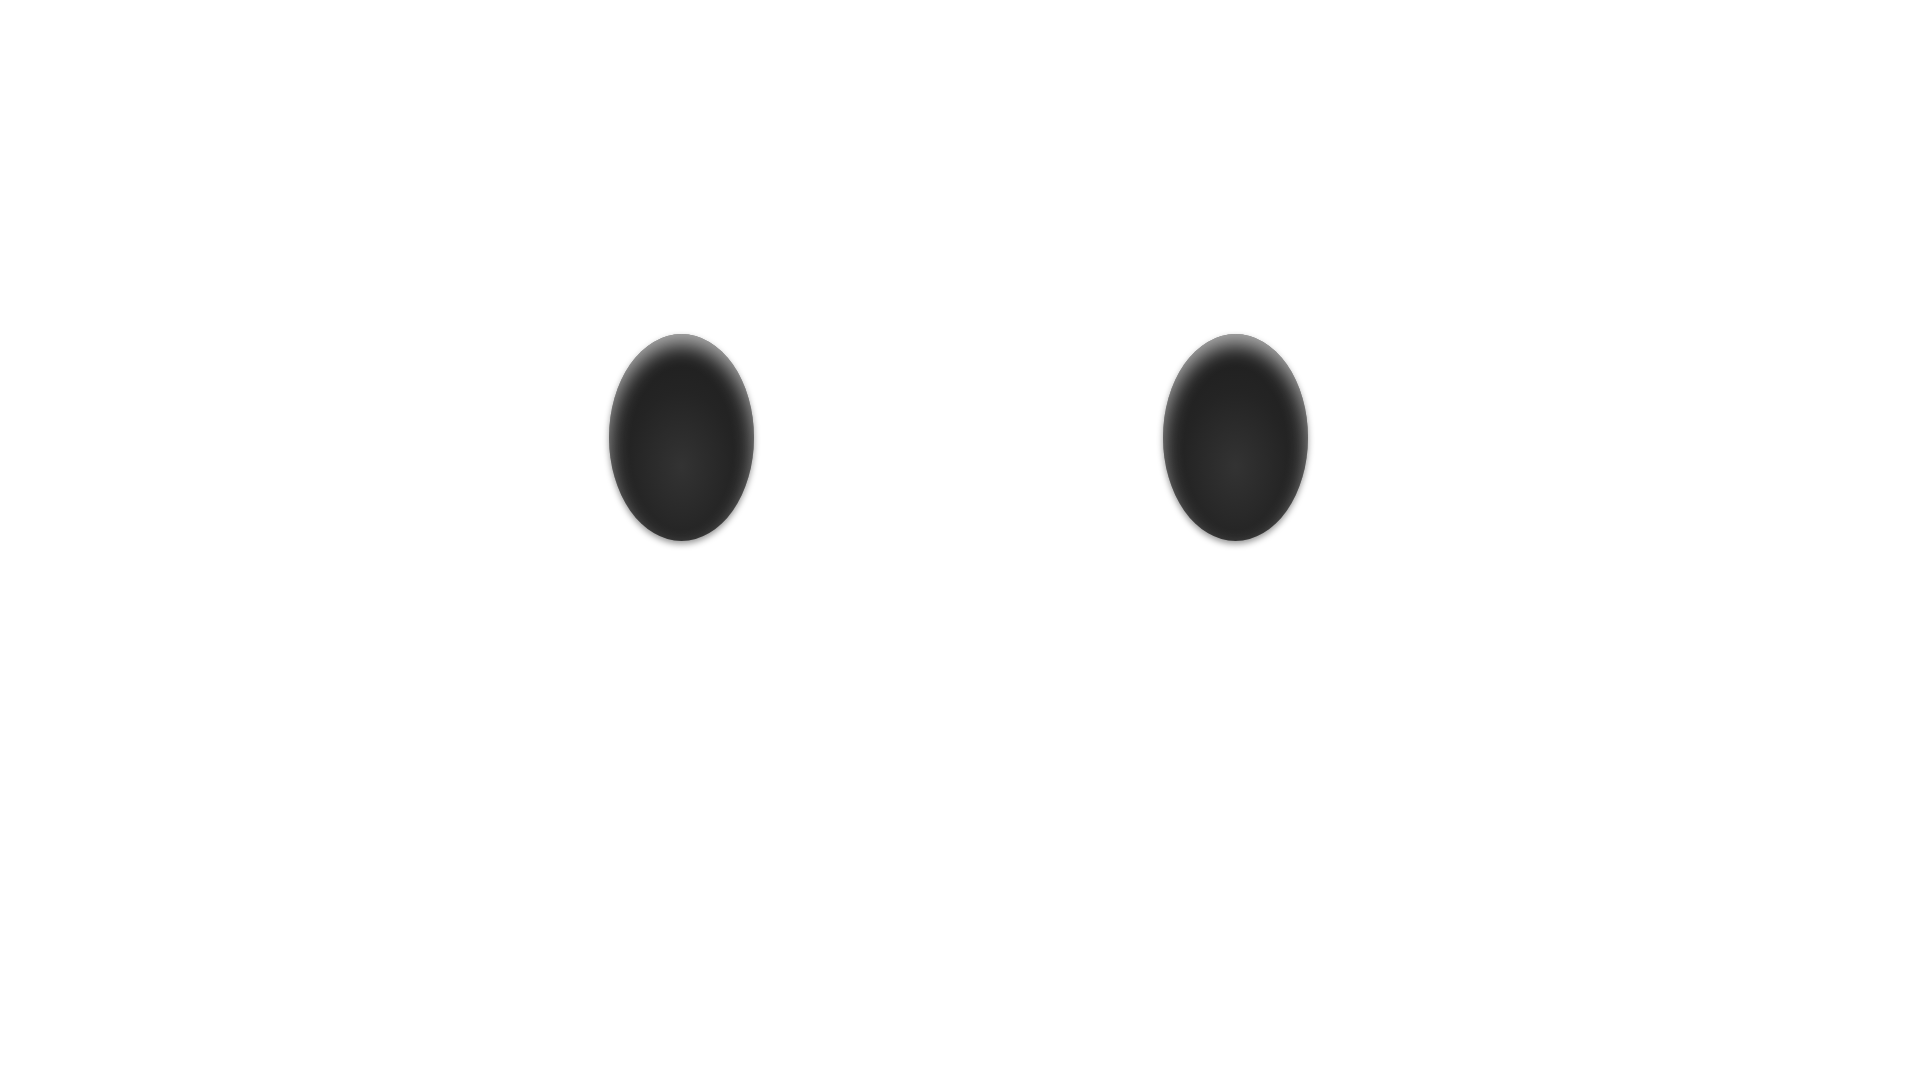
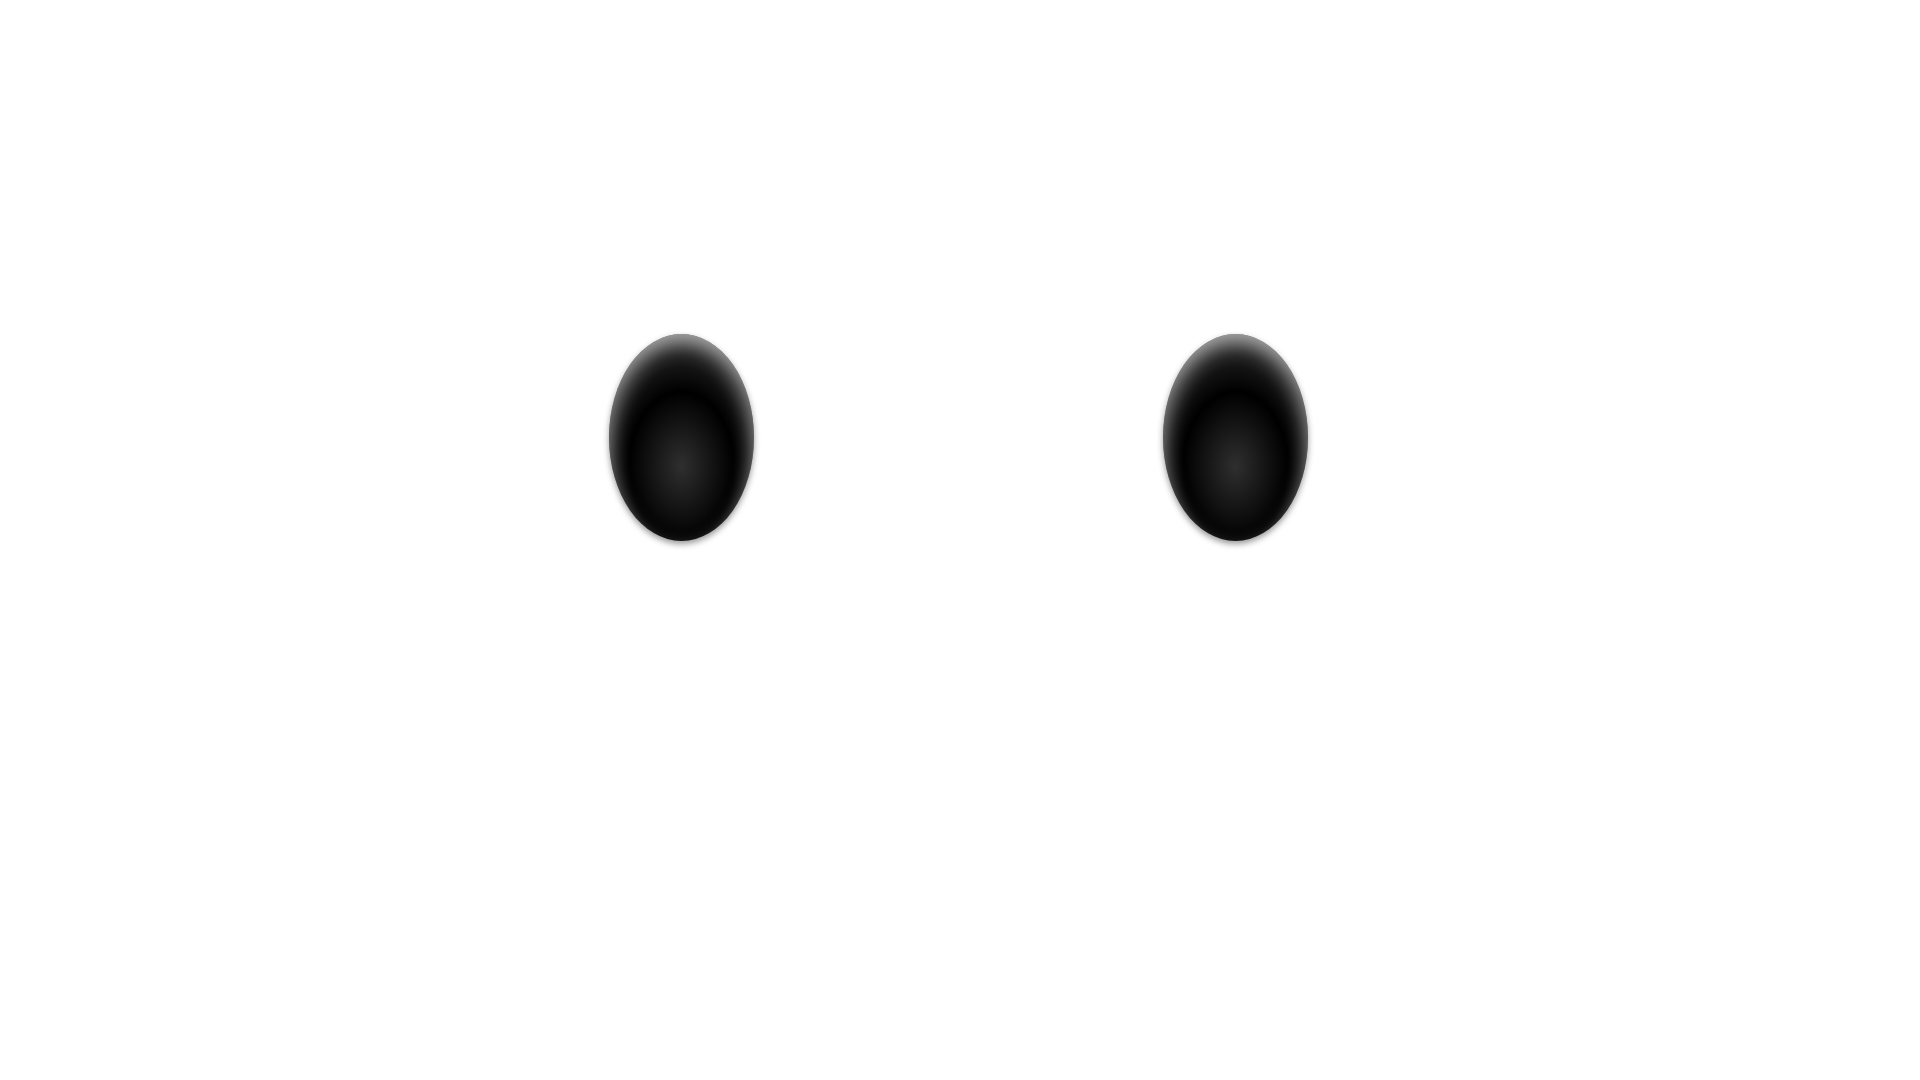
Added all CSS classes and emotion switch case.

Changed region(s): [[0.3125, 0.3361, 0.4062, 0.5194], [0.5938, 0.3361, 0.6875, 0.5194]]

diff --git a/Frontend/style.css b/Frontend/style.css
@@ -1,14 +1,20 @@
+:root {
+    --primary-color: #E8CE58;
+}
+
 body {
-    background-color: #E8CE58;
+    background-color: var(--primary-color);
+    overflow: hidden;
+    filter: hue-rotate(0deg);
+    transition: filter .8s ease;
 }
 
-.monster-parent {
-    position: relative;
-    height: 100%;
-    width: 100%;
+.monster-parent  {
+    height: 100vh;
+    background-color: var(--primary-color);
 }
 
-.monster-image {
+#teeth, #mouth, #eyes, #pupils, #eyelid-right, #eyelid-left, #highlight {
     width: 100vw;
     /* max-height: 100vh; */
     position: absolute;
@@ -16,8 +22,16 @@ body {
     -ms-transform: translateY(-50%);
     transform: translateY(-50%);
 }
+#eyelid-right, #eyelid-left {
+    margin-top: -5.4vw;
+    height: 0%;
+}
 
-#monster-eye {
+#highlight {
+    mix-blend-mode: soft-light;
+}
+
+#pupils {
     animation: blink 1s ease-in-out infinite alternate;
 }
 
@@ -33,5 +47,174 @@ body {
     }
     13% {
         height: 56.25vw;
+    }
+}
+
+@keyframes sleeping_mouth {
+    0% {
+        transform: translateY(-37.65%) scaleY(.5);
+    }
+    50% {
+        transform: translateY(-38.25%) scaleY(.57);
+    }
+    75% {
+        transform: translateY(-37.65%) scaleY(.5);
+    }
+}
+
+@keyframes sad_mouth {
+    0% {
+        transform: translateY(-35%) scaleY(-.3);
+    }
+    50% {
+        transform: translateY(-36%) scaleY(-.4);
+    }
+    75% {
+        transform: translateY(-35%) scaleY(-.3);
+    }
+}
+
+
+@keyframes laughing_eyelids {
+    10% {
+        height: 0vw; margin-top: 9vw;
+    }
+    20% {
+        margin-top: -2.2vw;
+        height: 40vw;
+    }
+    25% {
+        margin-top: -0.5vw;
+        height: 40vw;
+    }
+    30% {
+        margin-top: -2.2vw;
+        height: 40vw;
+    }
+    35% {
+        margin-top: -0.5vw;
+        height: 40vw;
+    }
+    40% {
+        margin-top: -2.2vw;
+        height: 40vw;
+    }
+    45% {
+        margin-top: -0.5vw;
+        height: 40vw;
+    }
+    50% {
+        margin-top: -2.2vw;
+        height: 40vw;
+    }
+    55% {
+        margin-top: -0.5vw;
+        height: 40vw;
+    }
+    60% {
+        margin-top: -2.2vw;
+        height: 40vw;
+    }
+    65% {
+        margin-top: -0.5vw;
+        height: 40vw;
+    }
+    70% {
+        margin-top: -2.2vw;
+        height: 40vw;
+    }
+    80% {
+        height: 0vw; margin-top: 9vw;
+    }
+    100% {
+        height: 0vw; margin-top: 9vw;
+    }
+}
+
+.mouth-neutral {
+    transform: translateY(-37.65%) scaleY(.5) !important;
+    animation: sleeping_mouth 4s cubic-bezier(0.42, 0, 0.26, 1.93) 2s infinite !important;
+}
+
+.mouth-sad {
+    transform: translateY(-35%) scaleY(-.3) !important;
+    animation: sad_mouth 4s cubic-bezier(0.42, 0, 0.26, 1.93) 2s infinite !important;
+}
+
+.mouth-laughing {
+    transform: translateY(-37.65%) scaleY(.5) !important;
+    animation: laughing_mouth 3s ease-in-out infinite !important;
+}
+
+.eyelid-laughing {
+    animation: laughing_eyelids 3s ease-in-out infinite !important;
+}
+
+.eyelid-right-sad {
+    transform: translate(5%, -85%) !important;
+    height: 100% !important;
+}
+
+.eyelid-left-sad {
+    transform: translate(-5%, -85%) !important;
+    height: 100% !important;
+}
+
+.eyelid-sleepy {
+    transform: translateY(-66%) scale(1.1) !important;
+    height: 100% !important;
+}
+
+.hide {
+    display: none !important;
+}
+
+.show {
+    display: initial !important;
+}
+
+
+@keyframes laughing_mouth {
+    10% {
+        transform: translateY(-37.65%) scaleY(.5);
+    }
+    20% {
+        transform: translateY(-37.65%) scaleY(1);
+    }
+    25% {
+        transform: translateY(-37.65%) scaleY(.8);
+    }
+    30% {
+        transform: translateY(-37.65%) scaleY(1);
+    }
+    35% {
+        transform: translateY(-37.65%) scaleY(.8);
+    }
+    40% {
+        transform: translateY(-37.65%) scaleY(1);
+    }
+    45% {
+        transform: translateY(-37.65%) scaleY(.8);
+    }
+    50% {
+        transform: translateY(-37.65%) scaleY(1);
+    }
+    55% {
+        transform: translateY(-37.65%) scaleY(.8);
+    }
+    60% {
+        transform: translateY(-37.65%) scaleY(1);
+    }
+    65% {
+        transform: translateY(-37.65%) scaleY(.8);
+    }
+    70% {
+        transform: translateY(-37.65%) scaleY(1);
+    }
+    80% {
+        transform: translateY(-37.65%) scaleY(.5);
+    }
+    100% {
+        transform: translateY(-37.65%) scaleY(.5);
     }
 }

diff --git a/Frontend/gaze-follower.js b/Frontend/gaze-follower.js
@@ -1,20 +1,78 @@
-<<<<<<< HEAD
-const eye1 = document.querySelector('.eyes');
-// const eye2 = document.querySelector('.eye-right')
+var emotion = 'neutral';
+const body = document.body;
+const pupils = document.getElementById('pupils');
+
+// Set eye blinking.
 window.addEventListener('mousemove', (evt) => {
     const x = (evt.pageX - (window.innerWidth / 2)) / 110;
     const y = 50 + (evt.pageY - (window.innerHeight / 2)) / 35;
-    console.log(y);
-    eye1.style.top = `${y}%`
-    eye1.style.left = `${x}%`;
-    // eye2.style.transform = `translateY(${y}px) translateX(${x}px)`;
-=======
-const eye1 = document.querySelector('.eye-left');
-const eye2 = document.querySelector('.eye-right')
-window.addEventListener('mousemove', (evt) => {
-    const x = -(window.innerWidth / 2 - evt.pageX) / 8;
-    const y = -(window.innerHeight / 2 - evt.pageY) / 8;
-    eye1.style.transform = `translateY(${y}px) translateX(${x}px)`;
-    eye2.style.transform = `translateY(${y}px) translateX(${x}px)`;
->>>>>>> cfa6a7ffaf21bfda5a4576d4862d81c27b1d705e
+    pupils.style.top = `${y}%`
+    pupils.style.left = `${x}%`;
 });
+
+// Function for adding and removing CSS classes for setting emotion.
+function updateCssClass(targetID, newCssClass) {
+    const element = document.getElementById(targetID);
+    element.className = ''; //remove all css styles
+    if(newCssClass) {
+        console.log(newCssClass);
+        element.classList.add(newCssClass)
+    }
+}
+
+function setEmotion() {
+    // Main program for deciding which emotion to set.
+    switch(emotion) {
+        case 'happy':
+            console.log('Emotion: Happy')
+            updateCssClass('pupils', null)
+            updateCssClass('eyelid-left', 'eyelid-laughing')
+            updateCssClass('eyelid-right', 'eyelid-laughing')
+            updateCssClass('mouth','mouth-laughing')
+            body.style.setProperty('filter', 'hue-rotate(0deg)');
+            break
+        case 'sad':
+            console.log('Emotion: Sad')
+            updateCssClass('pupils', 'show')
+            updateCssClass('eyelid-left', 'eyelid-left-sad')
+            updateCssClass('eyelid-right', 'eyelid-right-sad')
+            updateCssClass('mouth','mouth-sad')
+            body.style.setProperty('filter', 'hue-rotate(340deg)');
+            break;
+        case 'sleepy':
+            console.log('Emotion: Sleepy')
+            updateCssClass('pupils', 'hide')
+            updateCssClass('eyelid-left', 'eyelid-sleepy')
+            updateCssClass('eyelid-right', 'eyelid-sleepy')
+            updateCssClass('mouth','mouth-neutral')
+            body.style.setProperty('filter', 'hue-rotate(40deg)');
+            break
+        default:
+            console.log('Emotion: Default')
+            updateCssClass('pupils', null)
+            updateCssClass('eyelid-left', null)
+            updateCssClass('eyelid-right', null)
+            updateCssClass('mouth','mouth-neutral')
+            body.style.setProperty('filter', 'hue-rotate(110deg)');
+            break
+    }
+}
+
+setEmotion();
+var dgram = require('dgram');
+var port = 5005;
+
+socket = dgram.createSocket('udp4');
+
+socket.on('message', function (msg, info){
+    emotion = msg.toString();
+    console.log(emotion);
+    setEmotion();
+});
+
+socket.on('listening', function(){
+    var address = socket.address();
+    console.log("listening on :" + address.address + ":" + address.port);
+});
+
+socket.bind(port);

diff --git a/Frontend/index.html b/Frontend/index.html
@@ -10,11 +10,14 @@
 <body>
 
     <!-- This is the main monster image svg. -->
-    <div class="monster-parent">
-        <img src="img/01.png" alt="" class="monster-image">
-        <img src="img/02.png" alt="" class="monster-image">
-        <img src="img/03.png" alt="" class="monster-image">
-        <img src="img/04.png" alt="" class="monster-image eyes" id="monster-eye">
+    <div class="monster-parent monster-image">
+        <img src="img/01.png" alt="" id="teeth">
+        <img src="img/02.png" alt="" id="mouth">
+        <img src="img/03.png" alt="" id="eyes">
+        <img src="img/04.png" alt="" id="pupils">
+        <img src="img/eyelid_left.png" alt="" id="eyelid-left">
+        <img src="img/eyelid_right.png" alt="" id="eyelid-right">
+        <img src="img/highlight.png" alt="" id="highlight">
     </div>
     
 
